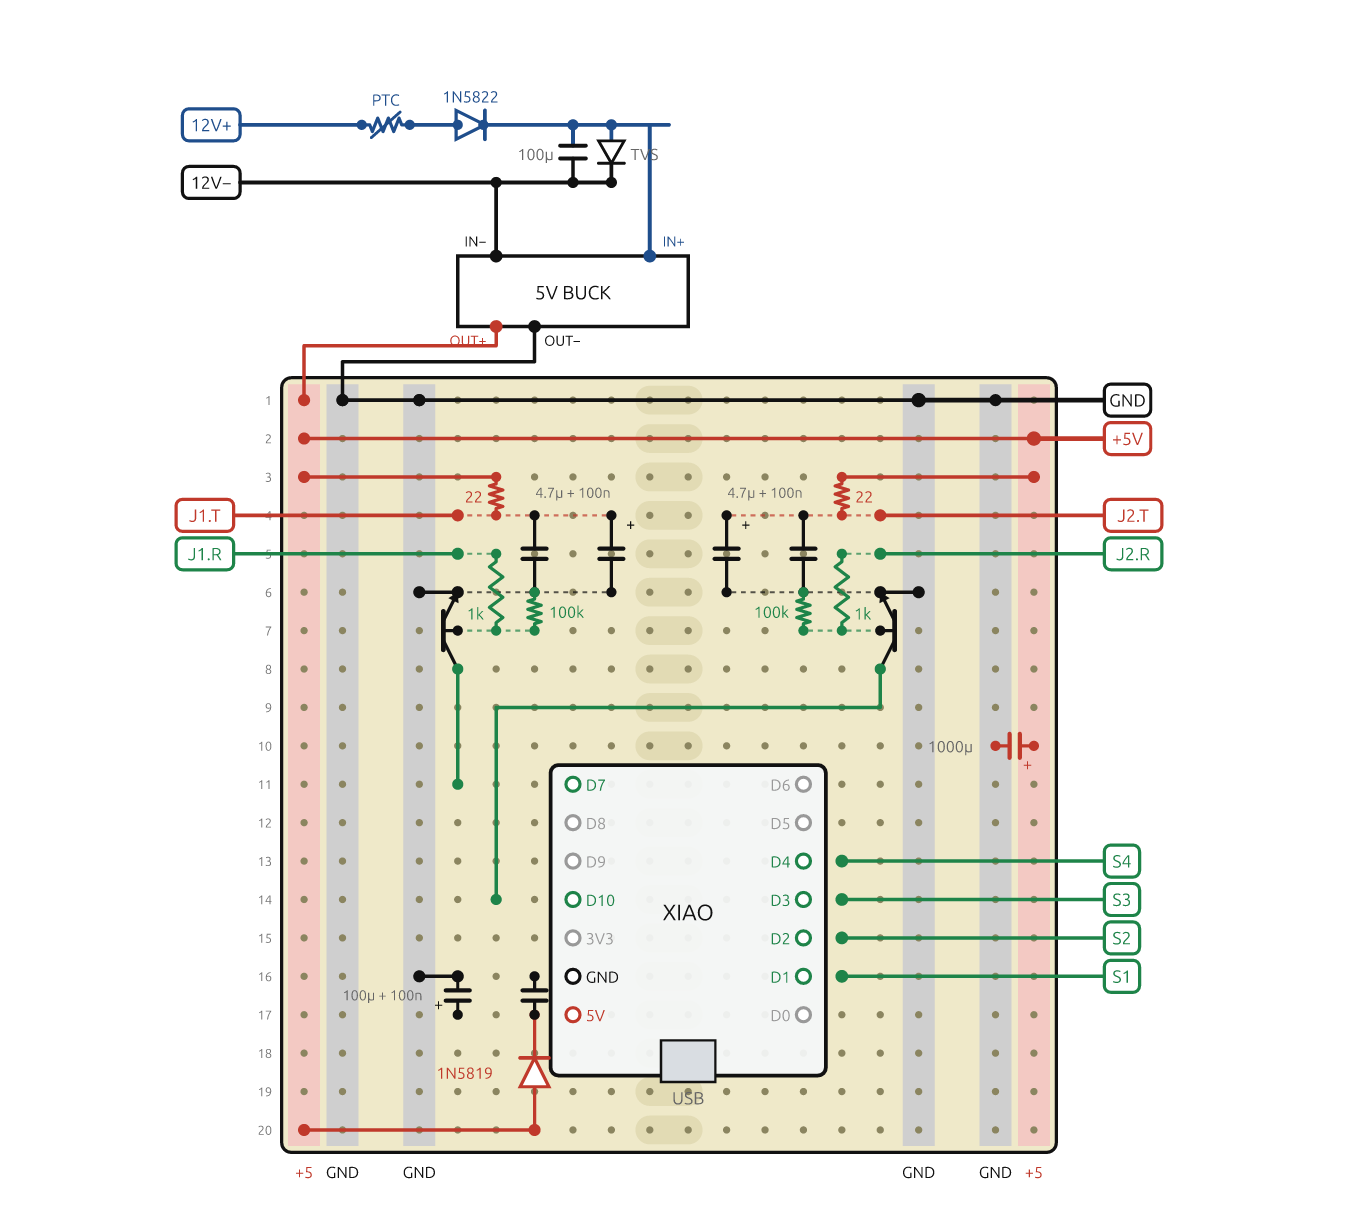
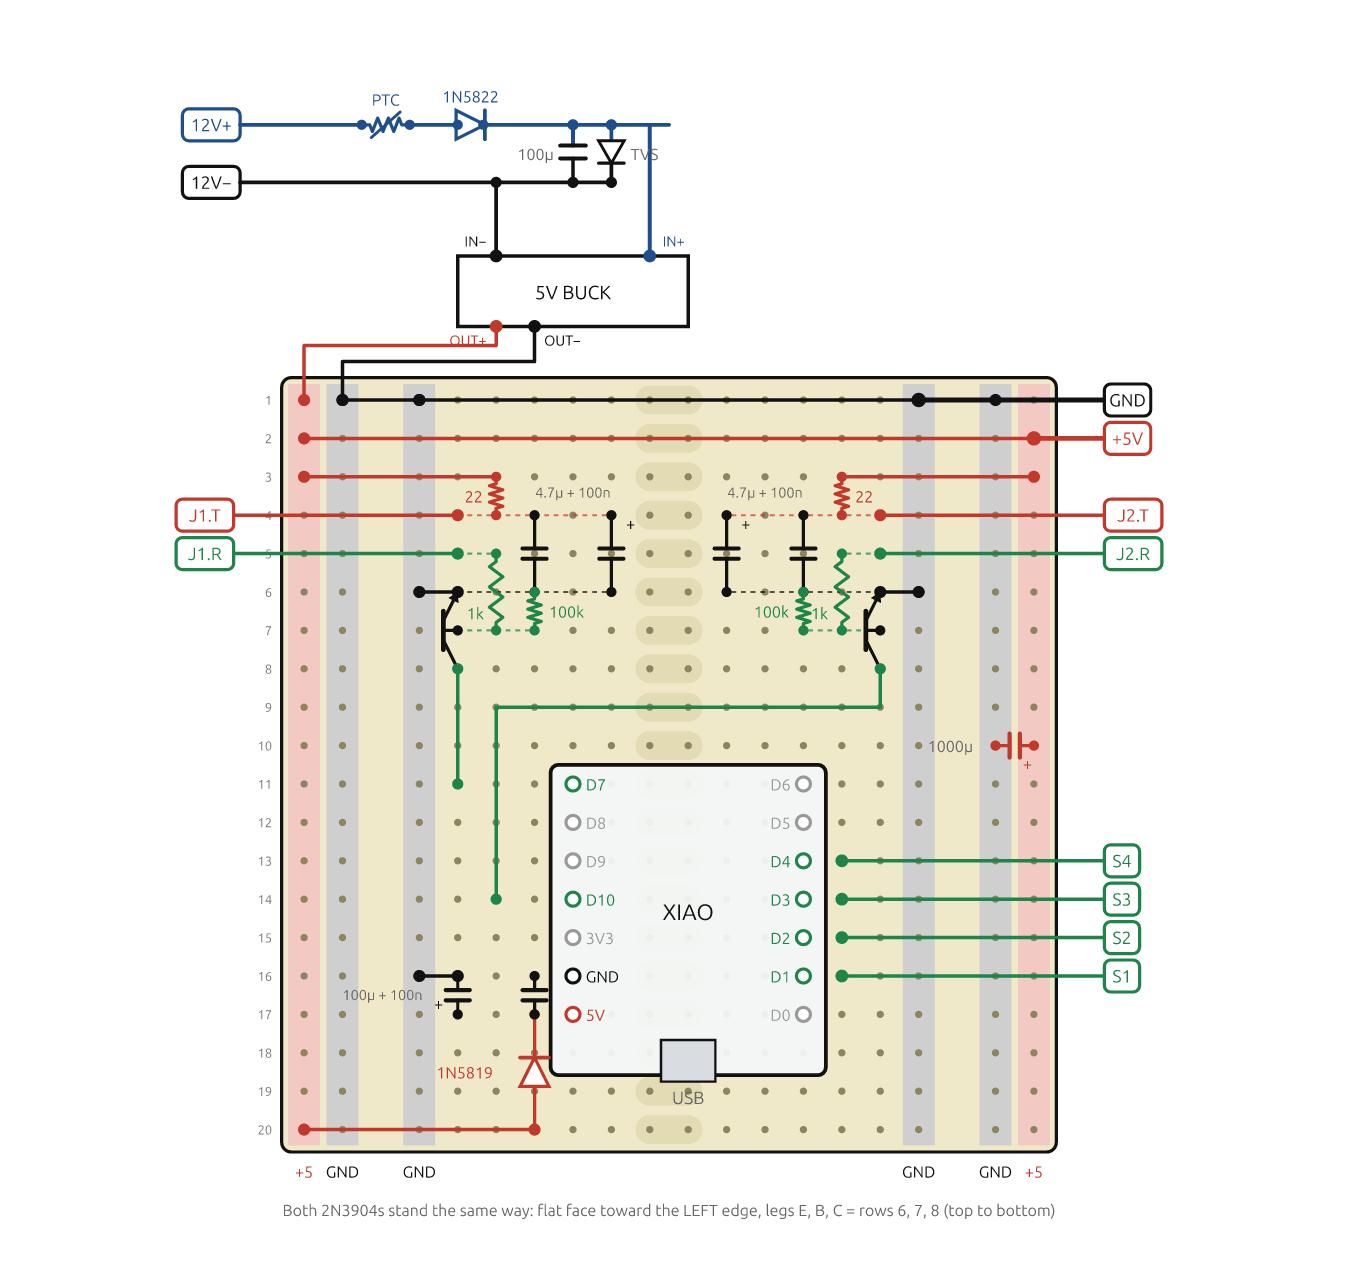
docs: both 2N3904s face the same way (flat to the left edge); right-hand symbol no longer mirrored

diff --git a/docs/08-servo-board.md b/docs/08-servo-board.md
@@ -246,7 +246,7 @@ colour crosses: the collector wire leaves downward from row 8, below the ring wi
 | 4.7 µF (+ to row 4), a barrel | row 4, k5 | row 6, k5 |
 | 100 nF (+ to row 4 if it is an electrolytic) | row 4, k3 | row 6, k3 |
 | GND jumper (shares the emitter hole) | C, row 6 | row 6, k1 |
-| 2N3904 standing in k1 | emitter row 6, base row 7, collector row 8 | |
+| 2N3904 standing in k1 (both blocks the same way: **flat face toward the left edge of the board**, legs E, B, C running down rows 6, 7, 8) | emitter row 6, base row 7, collector row 8 | |
 | 1 kΩ (lies along the column, 0.2") | row 5, k2 | row 7, k2 |
 | 100 kΩ (stands vertically; its top leg shares the 100 nF's row 6 hole) | row 6, k3 | row 7, k3 |
 | Tag `J1.T` / `J2.T` | row 4, k1 | |
